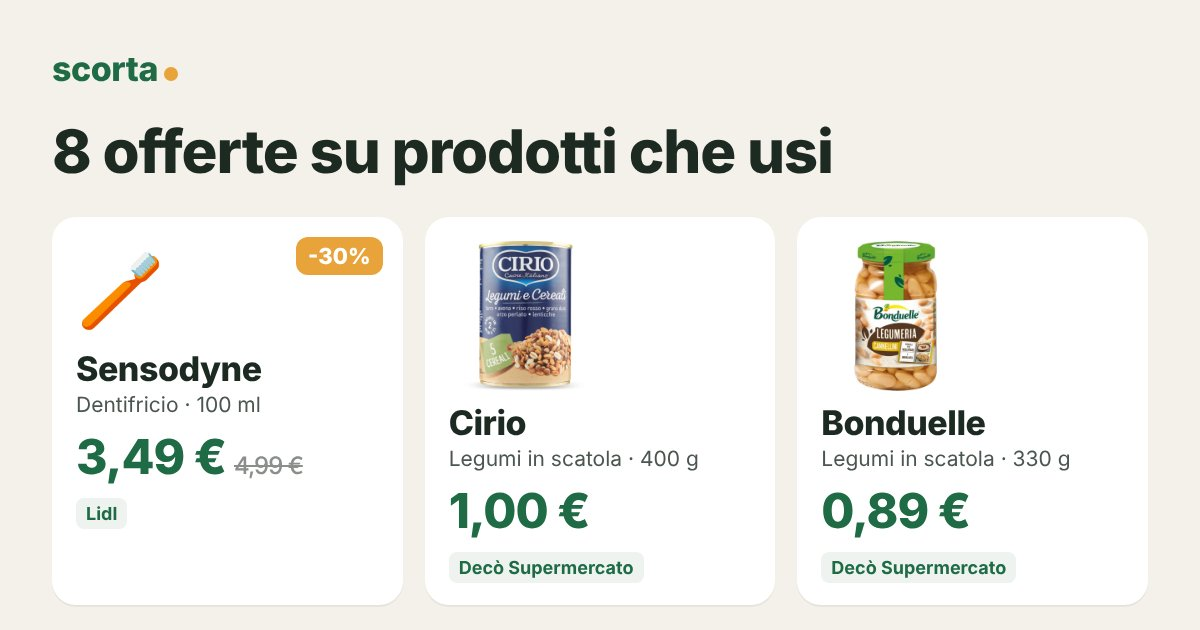
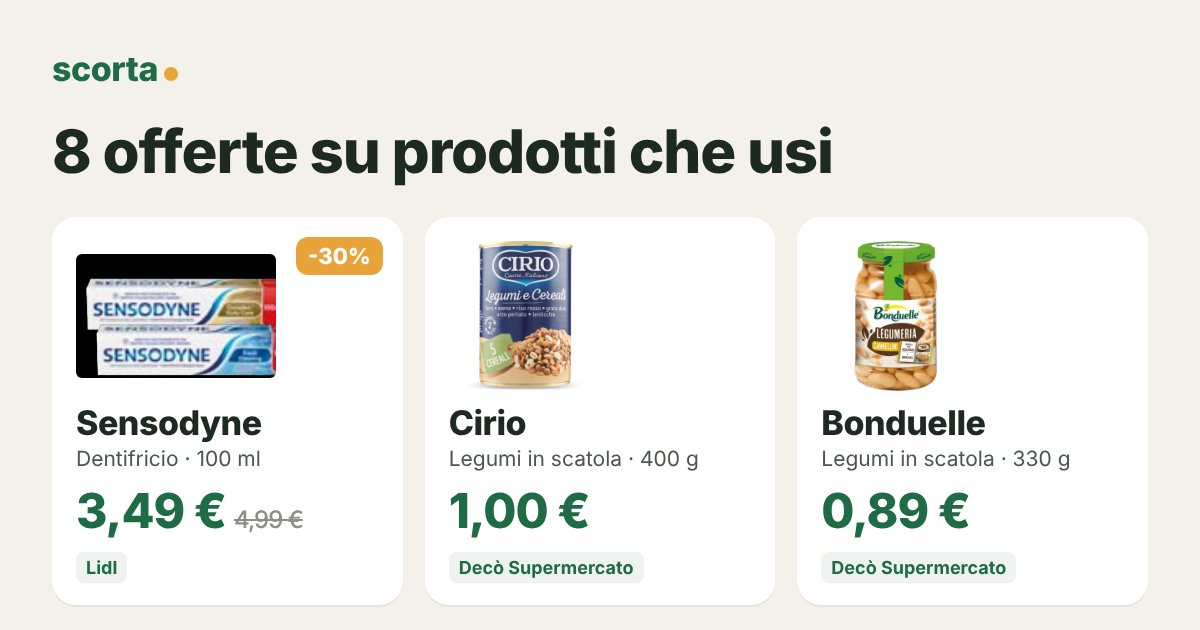
Pagine offerte 2026-11-11
Claude-Session: https://claude.ai/code/session_012BnByD7nnfoHswjF7TKs2L

Changed region(s): [[0.0617, 0.3921, 0.2775, 0.754], [0.0617, 0.7841, 0.2467, 0.8444], [0.0617, 0.8746, 0.0925, 0.9349]]

diff --git a/o/4ce6b57d/index.html b/o/4ce6b57d/index.html
@@ -6,4 +6,4 @@
 <style>body{margin:0;font-family:-apple-system,system-ui,sans-serif;background:#F4F1EA;color:#1d2a22}main{max-width:560px;margin:auto;padding:16px}img{width:100%;border-radius:14px}
 ul{list-style:none;padding:0}li{display:flex;gap:10px;align-items:center;background:#fff;border-radius:12px;padding:10px 12px;margin:8px 0}.ic{font-size:26px}.th{width:44px;height:44px;object-fit:contain;background:#fff}li div:nth-child(2){flex:1}small{color:#6b746e}.pr{text-align:right;white-space:nowrap}s{color:#8a8f8b;font-size:13px}
 .btn{display:block;text-align:center;background:#1f6b45;color:#fff;font-weight:700;font-size:18px;padding:16px;border-radius:14px;text-decoration:none;margin:18px 0}.map{display:block;color:#1f6b45;margin:6px 0;text-decoration:none}</style></head>
-<body><main><img src="card.jpg" alt=""><a class="btn" href="https://tally.so/r/OQQV7k?f=F018&amp;a=A375,A376,A377,A378,A379,A380,A381,A382">✅ Segna cosa hai comprato</a><ul><li><img class=th src=../../img/deco_74M07990P268_301.jpg><div><b>Cirio legumi e cereali vari tipi 400 g</b><br><small>Decò Supermercato · fino al 23/11</small></div><div class="pr"><b>1,00 €</b></div></li><li><img class=th src=../../img/deco_74M07990P253_301.jpg><div><b>Bonduelle legumi fagioli borlotti / cannellini / ceci 330 g</b><br><small>Decò Supermercato · fino al 23/11</small></div><div class="pr"><b>0,89 €</b></div></li><li><img class=th src=../../img/deco_74M07990P001_301.jpg><div><b>Balocco biscotti classici vari tipi / Cruschelle integrali 700 g</b><br><small>Decò Supermercato · fino al 23/11</small></div><div class="pr"><b>1,39 €</b></div></li><li><img class=th src=../../img/deco_74M07990P408_301.jpg><div><b>Sole piatti a mano 1,1 lt, vari profumi</b><br><small>Decò Supermercato · fino al 23/11</small></div><div class="pr"><b>1,29 €</b></div></li><li><img class=th src=../../img/deco_74M07990P321_301.jpg><div><b>Foxy carta igienica Seta 4+2 rotoli</b><br><small>Decò Supermercato · fino al 23/11</small></div><div class="pr"><b>2,49 €</b></div></li><li><img class=th src=../../img/deco_74M07990P038_301.jpg><div><b>Vidal bagnoschiuma vari tipi 500 ml</b><br><small>Decò Supermercato · fino al 23/11</small></div><div class="pr"><b>1,29 €</b></div></li><li><span class=ic>🥛</span><div><b>Latteria latte parzialmente scremato UHT 100% italiano 6x1 lt</b><br><small>Lidl · fino al 18/11</small></div><div class="pr"><b>4,69 €</b></div></li><li><span class=ic>🪥</span><div><b>Sensodyne dentifricio 100 ml, vari tipi</b><br><small>Lidl · fino al 18/11</small></div><div class="pr"><s>4,99 €</s> <b>3,49 €</b></div></li></ul><a class="map" href="https://www.google.com/maps/search/?api=1&query=Dec%C3%B2%20Supermercato%20Via%20Cataste%2C%2040%20Giugliano%20in%20Campania">📍 Decò Supermercato · Via Cataste, 40, Giugliano in Campania</a><a class="map" href="https://www.google.com/maps/search/?api=1&query=Lidl%20Via%20Giugliano%20Mugnano%2C%20137%20Villaricca">📍 Lidl · Via Giugliano Mugnano, 137, Villaricca</a><p><small>Prezzi e scadenze dai volantini delle insegne. Rispondi STOP su WhatsApp per non ricevere più avvisi.</small></p></main></body></html>
+<body><main><img src="card.jpg" alt=""><a class="btn" href="https://tally.so/r/OQQV7k?f=F018&amp;a=A375,A376,A377,A378,A379,A380,A381,A382">✅ Segna cosa hai comprato</a><ul><li><img class=th src=../../img/deco_74M07990P268_301.jpg><div><b>Cirio legumi e cereali vari tipi 400 g</b><br><small>Decò Supermercato · fino al 23/11</small></div><div class="pr"><b>1,00 €</b></div></li><li><img class=th src=../../img/deco_74M07990P253_301.jpg><div><b>Bonduelle legumi fagioli borlotti / cannellini / ceci 330 g</b><br><small>Decò Supermercato · fino al 23/11</small></div><div class="pr"><b>0,89 €</b></div></li><li><img class=th src=../../img/deco_74M07990P001_301.jpg><div><b>Balocco biscotti classici vari tipi / Cruschelle integrali 700 g</b><br><small>Decò Supermercato · fino al 23/11</small></div><div class="pr"><b>1,39 €</b></div></li><li><img class=th src=../../img/deco_74M07990P408_301.jpg><div><b>Sole piatti a mano 1,1 lt, vari profumi</b><br><small>Decò Supermercato · fino al 23/11</small></div><div class="pr"><b>1,29 €</b></div></li><li><img class=th src=../../img/deco_74M07990P321_301.jpg><div><b>Foxy carta igienica Seta 4+2 rotoli</b><br><small>Decò Supermercato · fino al 23/11</small></div><div class="pr"><b>2,49 €</b></div></li><li><img class=th src=../../img/deco_74M07990P038_301.jpg><div><b>Vidal bagnoschiuma vari tipi 500 ml</b><br><small>Decò Supermercato · fino al 23/11</small></div><div class="pr"><b>1,29 €</b></div></li><li><img class=th src=../../img/b2be360537.jpg><div><b>Latteria latte parzialmente scremato UHT 100% italiano 6x1 lt</b><br><small>Lidl · fino al 18/11</small></div><div class="pr"><b>4,69 €</b></div></li><li><img class=th src=../../img/4a4624a975.jpg><div><b>Sensodyne dentifricio 100 ml, vari tipi</b><br><small>Lidl · fino al 18/11</small></div><div class="pr"><s>4,99 €</s> <b>3,49 €</b></div></li></ul><a class="map" href="https://www.google.com/maps/search/?api=1&query=Dec%C3%B2%20Supermercato%20Via%20Cataste%2C%2040%20Giugliano%20in%20Campania">📍 Decò Supermercato · Via Cataste, 40, Giugliano in Campania</a><a class="map" href="https://www.google.com/maps/search/?api=1&query=Lidl%20Via%20Giugliano%20Mugnano%2C%20137%20Villaricca">📍 Lidl · Via Giugliano Mugnano, 137, Villaricca</a><p><small>Prezzi e scadenze dai volantini delle insegne. Rispondi STOP su WhatsApp per non ricevere più avvisi.</small></p></main></body></html>

diff --git a/o/ec0c1050/index.html b/o/ec0c1050/index.html
@@ -6,4 +6,4 @@
 <style>body{margin:0;font-family:-apple-system,system-ui,sans-serif;background:#F4F1EA;color:#1d2a22}main{max-width:560px;margin:auto;padding:16px}img{width:100%;border-radius:14px}
 ul{list-style:none;padding:0}li{display:flex;gap:10px;align-items:center;background:#fff;border-radius:12px;padding:10px 12px;margin:8px 0}.ic{font-size:26px}.th{width:44px;height:44px;object-fit:contain;background:#fff}li div:nth-child(2){flex:1}small{color:#6b746e}.pr{text-align:right;white-space:nowrap}s{color:#8a8f8b;font-size:13px}
 .btn{display:block;text-align:center;background:#1f6b45;color:#fff;font-weight:700;font-size:18px;padding:16px;border-radius:14px;text-decoration:none;margin:18px 0}.map{display:block;color:#1f6b45;margin:6px 0;text-decoration:none}</style></head>
-<body><main><img src="card.jpg" alt=""><a class="btn" href="https://tally.so/r/OQQV7k?f=F003&amp;a=A187,A188,A189,A190,A191,A192,A193,A194">✅ Segna cosa hai comprato</a><ul><li><img class=th src=../../img/a30734f376.jpg><div><b>Mutti passata di pomodoro 2x400 g</b><br><small>Conad · fino al 14/11</small></div><div class="pr"><b>1,69 €</b></div></li><li><img class=th src=../../img/11a71a0aa0.jpg><div><b>La Molisana pasta di semola formati speciali 500 g</b><br><small>Conad · fino al 14/11</small></div><div class="pr"><b>1,19 €</b></div></li><li><img class=th src=../../img/a83cc73ac4.jpg><div><b>Nutella 750 g</b><br><small>Conad · fino al 14/11</small></div><div class="pr"><s>6,49 €</s> <b>4,49 €</b></div></li><li><img class=th src=../../img/d935c2dc67.jpg><div><b>Findus minestrone tradizione 1 kg</b><br><small>Conad · fino al 14/11</small></div><div class="pr"><s>4,49 €</s> <b>2,79 €</b></div></li><li><span class=ic>🍪</span><div><b>Mulino Bianco Rigoli Biscotti con Miele Millefiori Italiano 400g</b><br><small>Dodecà · prezzo fisso</small></div><div class="pr"><b>1,89 €</b></div></li><li><span class=ic>🐟</span><div><b>Rio Mare tonno all&#x27;olio di oliva 65 g x 6+3</b><br><small>Eté · fino al 12/11</small></div><div class="pr"><b>7,99 €</b></div></li><li><span class=ic>🍽</span><div><b>Fairy Platinum lemon lavastoviglie 45 pz</b><br><small>Eté · fino al 12/11</small></div><div class="pr"><b>9,49 €</b></div></li><li><span class=ic>🪥</span><div><b>Aquafresh dentifricio 75 ml, vari tipi</b><br><small>Eté · fino al 12/11</small></div><div class="pr"><b>1,00 €</b></div></li></ul><a class="map" href="https://www.google.com/maps/search/?api=1&query=Conad%20Corso%20Cirillo%2027%20Grumo%20Nevano">📍 Conad · Corso Cirillo 27, Grumo Nevano</a><a class="map" href="https://www.google.com/maps/search/?api=1&query=Dodec%C3%A0%20Via%20Sette%20Re%2C%2077%20Arzano">📍 Dodecà · Via Sette Re, 77, Arzano</a><a class="map" href="https://www.google.com/maps/search/?api=1&query=Et%C3%A9%20Via%20P.%20Borsellino%20Casandrino">📍 Eté · Via P. Borsellino, Casandrino</a><p><small>Prezzi e scadenze dai volantini delle insegne. Rispondi STOP su WhatsApp per non ricevere più avvisi.</small></p></main></body></html>
+<body><main><img src="card.jpg" alt=""><a class="btn" href="https://tally.so/r/OQQV7k?f=F003&amp;a=A187,A188,A189,A190,A191,A192,A193,A194">✅ Segna cosa hai comprato</a><ul><li><img class=th src=../../img/a30734f376.jpg><div><b>Mutti passata di pomodoro 2x400 g</b><br><small>Conad · fino al 14/11</small></div><div class="pr"><b>1,69 €</b></div></li><li><img class=th src=../../img/11a71a0aa0.jpg><div><b>La Molisana pasta di semola formati speciali 500 g</b><br><small>Conad · fino al 14/11</small></div><div class="pr"><b>1,19 €</b></div></li><li><img class=th src=../../img/a83cc73ac4.jpg><div><b>Nutella 750 g</b><br><small>Conad · fino al 14/11</small></div><div class="pr"><s>6,49 €</s> <b>4,49 €</b></div></li><li><img class=th src=../../img/d935c2dc67.jpg><div><b>Findus minestrone tradizione 1 kg</b><br><small>Conad · fino al 14/11</small></div><div class="pr"><s>4,49 €</s> <b>2,79 €</b></div></li><li><span class=ic>🍪</span><div><b>Mulino Bianco Rigoli Biscotti con Miele Millefiori Italiano 400g</b><br><small>Dodecà · prezzo fisso</small></div><div class="pr"><b>1,89 €</b></div></li><li><img class=th src=../../img/0341ed60ec.jpg><div><b>Rio Mare tonno all&#x27;olio di oliva 65 g x 6+3</b><br><small>Eté · fino al 12/11</small></div><div class="pr"><b>7,99 €</b></div></li><li><img class=th src=../../img/6e23f185fa.jpg><div><b>Fairy Platinum lemon lavastoviglie 45 pz</b><br><small>Eté · fino al 12/11</small></div><div class="pr"><b>9,49 €</b></div></li><li><img class=th src=../../img/2dfdadfe1b.jpg><div><b>Aquafresh dentifricio 75 ml, vari tipi</b><br><small>Eté · fino al 12/11</small></div><div class="pr"><b>1,00 €</b></div></li></ul><a class="map" href="https://www.google.com/maps/search/?api=1&query=Conad%20Corso%20Cirillo%2027%20Grumo%20Nevano">📍 Conad · Corso Cirillo 27, Grumo Nevano</a><a class="map" href="https://www.google.com/maps/search/?api=1&query=Dodec%C3%A0%20Via%20Sette%20Re%2C%2077%20Arzano">📍 Dodecà · Via Sette Re, 77, Arzano</a><a class="map" href="https://www.google.com/maps/search/?api=1&query=Et%C3%A9%20Via%20P.%20Borsellino%20Casandrino">📍 Eté · Via P. Borsellino, Casandrino</a><p><small>Prezzi e scadenze dai volantini delle insegne. Rispondi STOP su WhatsApp per non ricevere più avvisi.</small></p></main></body></html>

diff --git a/o/c2469fc1/index.html b/o/c2469fc1/index.html
@@ -6,4 +6,4 @@
 <style>body{margin:0;font-family:-apple-system,system-ui,sans-serif;background:#F4F1EA;color:#1d2a22}main{max-width:560px;margin:auto;padding:16px}img{width:100%;border-radius:14px}
 ul{list-style:none;padding:0}li{display:flex;gap:10px;align-items:center;background:#fff;border-radius:12px;padding:10px 12px;margin:8px 0}.ic{font-size:26px}.th{width:44px;height:44px;object-fit:contain;background:#fff}li div:nth-child(2){flex:1}small{color:#6b746e}.pr{text-align:right;white-space:nowrap}s{color:#8a8f8b;font-size:13px}
 .btn{display:block;text-align:center;background:#1f6b45;color:#fff;font-weight:700;font-size:18px;padding:16px;border-radius:14px;text-decoration:none;margin:18px 0}.map{display:block;color:#1f6b45;margin:6px 0;text-decoration:none}</style></head>
-<body><main><img src="card.jpg" alt=""><a class="btn" href="https://tally.so/r/OQQV7k?f=F002&amp;a=A184,A185,A186">✅ Segna cosa hai comprato</a><ul><li><span class=ic>🐟</span><div><b>Rio Mare tonno all&#x27;olio di oliva 65 g x 6+3</b><br><small>Eté · fino al 12/11</small></div><div class="pr"><b>7,99 €</b></div></li><li><img class=th src=../../img/9b3068e83c.jpg><div><b>Scottex carta igienica 10 rotoli</b><br><small>Conad City · fino al 15/11</small></div><div class="pr"><b>2,79 €</b></div></li><li><img class=th src=../../img/deco_74M07931P345_301.jpg><div><b>Bio Presto detersivo lavatrice liquido 50 lavaggi, vari profumi</b><br><small>Decò Supermercato · fino al 12/11</small></div><div class="pr"><b>3,99 €</b></div></li></ul><a class="map" href="https://www.google.com/maps/search/?api=1&query=Et%C3%A9%20Via%20G.%20Iervolino%2C%2080%20Poggiomarino">📍 Eté · Via G. Iervolino, 80, Poggiomarino</a><a class="map" href="https://www.google.com/maps/search/?api=1&query=Conad%20City%20Via%20Publio%20Virgilio%20Marone%208/10%20Poggiomarino">📍 Conad City · Via Publio Virgilio Marone 8/10, Poggiomarino</a><a class="map" href="https://www.google.com/maps/search/?api=1&query=Dec%C3%B2%20Supermercato%20Via%20Fornillo%2C%2019%20Poggiomarino">📍 Decò Supermercato · Via Fornillo, 19, Poggiomarino</a><p><small>Prezzi e scadenze dai volantini delle insegne. Rispondi STOP su WhatsApp per non ricevere più avvisi.</small></p></main></body></html>
+<body><main><img src="card.jpg" alt=""><a class="btn" href="https://tally.so/r/OQQV7k?f=F002&amp;a=A184,A185,A186">✅ Segna cosa hai comprato</a><ul><li><img class=th src=../../img/0341ed60ec.jpg><div><b>Rio Mare tonno all&#x27;olio di oliva 65 g x 6+3</b><br><small>Eté · fino al 12/11</small></div><div class="pr"><b>7,99 €</b></div></li><li><img class=th src=../../img/9b3068e83c.jpg><div><b>Scottex carta igienica 10 rotoli</b><br><small>Conad City · fino al 15/11</small></div><div class="pr"><b>2,79 €</b></div></li><li><img class=th src=../../img/deco_74M07931P345_301.jpg><div><b>Bio Presto detersivo lavatrice liquido 50 lavaggi, vari profumi</b><br><small>Decò Supermercato · fino al 12/11</small></div><div class="pr"><b>3,99 €</b></div></li></ul><a class="map" href="https://www.google.com/maps/search/?api=1&query=Et%C3%A9%20Via%20G.%20Iervolino%2C%2080%20Poggiomarino">📍 Eté · Via G. Iervolino, 80, Poggiomarino</a><a class="map" href="https://www.google.com/maps/search/?api=1&query=Conad%20City%20Via%20Publio%20Virgilio%20Marone%208/10%20Poggiomarino">📍 Conad City · Via Publio Virgilio Marone 8/10, Poggiomarino</a><a class="map" href="https://www.google.com/maps/search/?api=1&query=Dec%C3%B2%20Supermercato%20Via%20Fornillo%2C%2019%20Poggiomarino">📍 Decò Supermercato · Via Fornillo, 19, Poggiomarino</a><p><small>Prezzi e scadenze dai volantini delle insegne. Rispondi STOP su WhatsApp per non ricevere più avvisi.</small></p></main></body></html>
